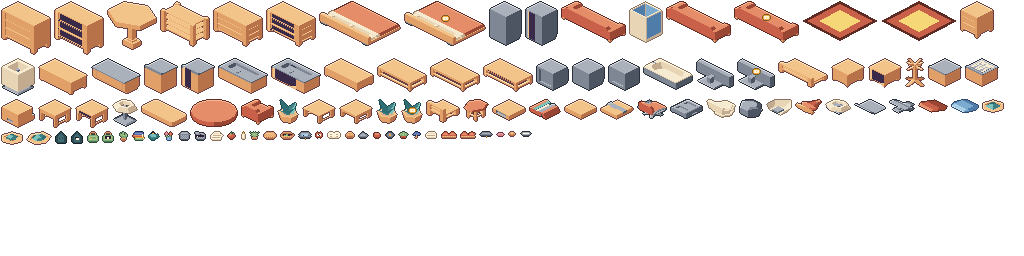
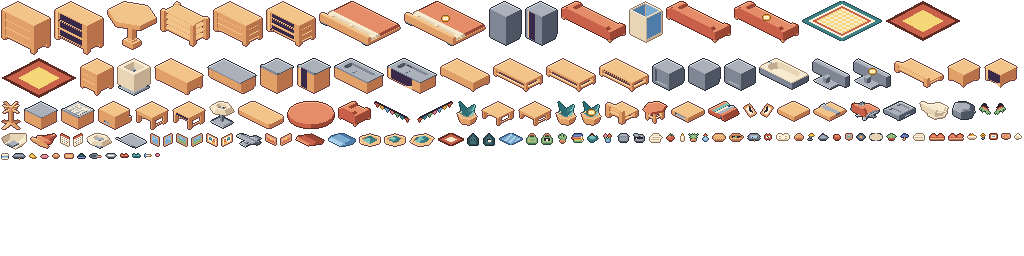
AI-4: last 29 hand-built decor kinds incl. wall mounts (R/_L); every registry kind has a frame

Changed region(s): [[0.0, 0.2188, 1.0, 0.625], [0.7812, 0.0, 0.9688, 0.1562]]

diff --git a/tools/pixelart/props2.py b/tools/pixelart/props2.py
@@ -1,0 +1,95 @@
+#!/usr/bin/env python3
+"""Hand-built decor kinds (B) that have no Kenney model: small tops, flat floor pieces, rugRect, and wall mounts.
+Non-mount frames: pivot = bottom centre (tops) / centre (flat pieces, rugRect). Mounts: `prop/<kind>` is for the RIGHT wall (gy=0, sheared
+down-right), `prop/<kind>_L` its mirror for the LEFT wall; pivot = the wall point P(t, base) (bottom-left corner of the right-wall frame, bottom-right of _L).
+Usage: props2.py <room-slice dir>"""
+import json, math, os, sys
+from PIL import Image
+sys.path.insert(0, os.path.dirname(__file__))
+from dsl import build, col
+from props import L
+from yard import outline, new
+T = {
+ 'teacup': ["..ww..", ".wwww.", "wcccwo", "wcccwo", ".ddd.."],
+ 'vase': ["..r..", ".rRr.", "..g..", ".bBb.", "bBBBb", "bBBBb", ".bbb."],
+ 'photoFrame1': ["nnnnnn", "nbBBbn", "nbggbn", "nbbbbn", "nnnnnn", "..mm.."],
+ 'photoFrame2': ["nnnnnnnn", "nPpppyPn", "nppyyppn", "nnnnnnnn", "..mmmm.."],
+ 'bowl': ["..r.y..", ".rRyYy.", "wwwwwwww", "wccccccw", ".dddddd."],
+ 'cuttingBoard': ["nnnnnnnn", "nNNNNNNn", "nNnNNNNn", "mnnnnnnm"],
+ 'pan': ["..kkkkk...", "kjjjjjkk..", "kjjjjjkNNNN", "..kkkkk..."],
+ 'banana': [".yy...", "yYYy..", "yYYYy.", "..yyyz"],
+ 'magazine': ["rrrrrrr", "rwwwwwr", "rwbbbwr", "rwwwwwr", "rrrrrrr"],
+ 'desk_lamp': ["..yyy.", ".yYYYy", "..kk..", "..k...", ".k....", "kkkk.."],
+ 'hat': ["..lll..", ".lLLLl.", "lllllll", "VVVVVVV"],
+ 'keyring': [".yy.", "y..y", ".yy.", "..k.", ".kk."],
+ 'towelStack': ["wwwwww", "cccccc", "bbbbbb", "BBBBBB", "wwwwww"],
+ 'soap': ["ppp", "pPp"],
+ 'toothbrush': ["b.....", "bwwwwy", "b....."],
+}
+F = {'shoesPair': (["rr..rr.", "RRrrRRr", "qqqqqqq"], 'ink'), 'slippers': (["tt..tt.", "TTttTTt", "uuuuuuu"], 'ink')}
+def disc(w, h, fn):
+    im = new(w, h); px = im.load()
+    for y in range(h):
+        for x in range(w):
+            d = abs(x - (w - 1) / 2) / (w / 2) + abs(y - (h - 1) / 2) / (h / 2)
+            if d <= 1: px[x, y] = fn(x, y, d)
+    return im
+def padded(im, pv):
+    pd = new(im.width + 2, im.height + 2); pd.alpha_composite(im, (1, 1)); return pd, (pv[0] + 1, pv[1] + 1)
+def ellipse(w, h, fn):
+    im = new(w, h); px = im.load()
+    for y in range(h):
+        for x in range(w):
+            d = ((x - (w - 1) / 2) / (w / 2)) ** 2 + ((y - (h - 1) / 2) / (h / 2)) ** 2
+            if d <= 1: px[x, y] = fn(x, y, d)
+    return im
+def rug_rect():
+    def f(x, y, d):
+        if d > 0.86: return col('teal.2')
+        if d > 0.76: return col('plaster.4')
+        if d > 0.66: return col('terracotta.2')
+        return col('butter.3') if (x // 4 + y // 2) % 2 else col('plaster.3')
+    return disc(80, 40, f)
+def shear(flat, left):
+    w, h = flat.size; im = new(w, h + w // 2 + 1)
+    for x in range(w): im.alpha_composite(flat.crop((x, 0, x + 1, h)), (x, x // 2))
+    pv = (0, h - 1 + 1)
+    if left: im = im.transpose(Image.FLIP_LEFT_RIGHT); pv = (w - 1, pv[1])
+    return im, pv
+M = {
+ 'poster1': ["nnnnnnnnnn", "nbbbbbbbbn", "nbbBBbbbbn", "nbbbbbbbbn", "nggggggggn", "nGgGgGgGgn", "nggggggggn", "nnnnnnnnnn"],
+ 'poster2': ["nnnnnnnnnn", "nPPPPPPPPn", "nPyyYyyPPn", "nppyYYypPn", "nrrrrrrrrn", "nRrRrRrRrn", "nnnnnnnnnn"],
+ 'poster3': ["nnnnnnnnnn", "nwwwwwwwwn", "nwtttwrrwn", "nwtTtwrRwn", "nwtttwrrwn", "nwwwwyyywn", "nwwwwyYywn", "nnnnnnnnnn"],
+ 'calendar': ["rrrrrrrr", "rrrrrrrr", "wwwwwwww", "wkwkwkww", "wwwwwwww", "wkwkwkrw", "wwwwwwww", "wkwkwkww", "cccccccc"],
+ 'mirrorWall': ["nnnnnnnn", "nBbBbBbn", "nbBbBbBn", "nBbBbbbn", "nbBbbbbn", "nBbbbbbn", "nbbbbbbn", "nbbbbbbn", "nnnnnnnn"],
+ 'hangingPlant': ["....ii....", "...i..i...", "..i....i..", "...rrrr...", "..rRRRRr..", ".gGgGgGgg.", "gGgGhGgGgG", "g.gG..Gg.g", "..g....g.."],
+ 'bunting': ["iiiiiiiiiiiiiiiiiiiiiiiiiiiiiiii", "rrrr.yyyy.bbbb.pppp.gggg.tttt.rrrr.", ".rr...yy...bb...pp...gg...tt...rr..", "..r....y....b....p....g....t....r..."],
+}
+def clock():
+    return disc(12, 12, lambda x, y, d: col('nN'[0:0] or 'woodWarm.2') if d > 0.8 else col('plaster.4') if not (x in (5, 6) and y < 7 or y in (5, 6) and x > 5 and x < 9) else col('ink'))
+if __name__ == '__main__':
+    out = sys.argv[1]; piv = json.load(open(os.path.join(out, 'pivots.json')))
+    def save(key, im, pv, pad=True):
+        if pad: im, pv = padded(im, pv)
+        im.save(os.path.join(out, key.replace('/', '__') + '.png')); piv[key] = {'pivot': list(pv)}
+    for k, rows in T.items():
+        im = build(rows, L); save(f'prop/{k}', im, (im.width // 2, im.height - 2), pad=False)
+    for k, (rows, _) in F.items():
+        im = build(rows, L); save(f'prop/{k}', im, (im.width // 2, im.height // 2), pad=False)
+    cat = disc(26, 13, lambda x, y, d: col('terracotta.0') if d > 0.88 else col('plaster.3') if d < 0.5 else col('terracotta.2'))
+    save('prop/catBed', outline(cat), (14, 7))  # save() pads
+    save('prop/bathMat', outline(disc(24, 12, lambda x, y, d: col('sky.1') if d > 0.85 else col('sky.3') if (x + y) % 6 < 3 else col('sky.2'))), (13, 7))
+    rv = ellipse(14, 8, lambda x, y, d: col('stone.1') if d > 0.8 else col('plaster.2') if (x, y) != (9, 3) else col('rose.3')); save('prop/robotVacuum', outline(rv), (8, 5))
+    save('prop/rugRect', outline(rug_rect()), (41, 21))
+    for k, rows in M.items():
+        flat = build(rows, L, outline=False) if False else None
+        flat = new(max(len(r) for r in rows), len(rows)); px = flat.load()
+        for y, r in enumerate(rows):
+            for x, ch in enumerate(r):
+                if ch != '.': px[x, y] = col(L[ch])
+        for left in (False, True):
+            im, pv = shear(flat, left); im, pv = padded(outline(padded(im, pv)[0]), (pv[0] + 1, pv[1] + 1)); save(f'prop/{k}' + ('_L' if left else ''), im, pv, pad=False)
+    c = clock()
+    for left in (False, True):
+        im, pv = shear(c, left); im, pv = padded(outline(padded(im, pv)[0]), (pv[0] + 1, pv[1] + 1)); save('prop/clockWall' + ('_L' if left else ''), im, pv, pad=False)
+    json.dump(piv, open(os.path.join(out, 'pivots.json'), 'w'), indent=0); print('props2 done')

diff --git a/docs/status/AI-4.md b/docs/status/AI-4.md
@@ -9,6 +9,8 @@
 - Room contact sheet tool (art:sheet), kitchen/bedroom props, check-frames fronts check: closed/open now exist for every kind used by living, kitchen and bedroom (bagSpot, basket, bin, charger, jacket, papers, shoeRack, rug, table new; sofa/bed/tv/plant got an `open` state). tools/pixelart/spots.py + spots.json (table).
 - 42 more Kenney-derived `prop/<kind>` frames (all registry kinds that have a Kenney model: sofa, chairs, tables, storage, kitchen, bath, laundry, lamps, rugs, small tops...). Footprints/heights taken from worldKinds.ts. fronts.json now covers 50 models (check_fronts: 0 missing). room-slice atlas 113 frames in one 1024x1024 sheet.
 - Shells for ALL 6 rooms at ROOM_SIZE (entrance 8x9, living 12x9, kitchen 10x9, bathroom 8x9, bedroom 12x9, study 10x9), wall 64 art px, windows from worldProps, door on the left wall of rooms that are `b` of a WORLD_DOOR. Keys `shell/<room>/full|full_dusk|full_night`, one atlas per room: group `room:<id>`. Pivot = back corner of the floor diamond = (145,65) in every room. Old 10x8 shells removed from room:slice. Per-room moods: entrance terracotta, living sage, kitchen teal tile, bathroom teal stripe + stone, bedroom blue/rose, study sage + slate.
+- Last 29 hand-built kinds (tools/pixelart/props2.py): tops (teacup, vase, frames, bowl, board, pan, banana, magazine, desk_lamp, hat, keyring, towelStack, soap, toothbrush), flats (shoesPair, slippers, catBed, bathMat, robotVacuum, rugRect 80x40) and wall mounts. EVERY kind in PROP_KINDS now has a `prop/<kind>` frame (script check: 0 missing).
+- MOUNT frames: `prop/<kind>` is the RIGHT wall (gy=0, sheared down-right) and `prop/<kind>_L` the LEFT wall; pivot = wall point P(t, base): bottom-left corner of the R frame, bottom-right of _L. They are ~8-16 art px, bigger than AI-3's 1x1.5-unit placeholder quad.
 ## Verified
 - check.py core: 74 files, 0 problems; room-slice: 49 files, 0 problems (see commit).
 ## Not verified
@@ -18,9 +20,10 @@
 - Exterior is simple: flat lawn tiles, small door (12x19 art px), awning is a single striped slope, glow is dithered.
 - A few picture frames and the coat rack still use dark honey-brown outlines; kitchen/bedroom shells only recoloured, not redesigned.
 ## Requests
+- AI-3: draw mounts with `prop/<kind>` (wall R) or `prop/<kind>_L` (wall L) anchored at P(t,0,base) / P(0,t,base); frames are not mirrored by flipX.
 - AI-3: shells are in `room:<id>` groups now (ensureGroup('room:living') etc.); props stay in `room:slice`. Pivot of every shell = floor back corner (145,65). Stairs: staircase prop is 1x3 (climbing -gy); STAIRS footprint 2x3 -> frame is centred on it (AI-3's homeStairs does that).
 - AI-2: stairsUp footprint is 2x1 in layoutProps.ts but the staircase needs 1 wide x 3 deep (or rotate to 3x1 with rot 1 once I add a mirrored frame). Tell me which; I can also re-cut it 2x1 with steeper rise.
 - AI-3: src/ui/theme.ts should read docs/art/palette.json `theme`. AI-1: add check_fronts.py to `npm run verify`.
 ## Next
-- Hand-built kinds still missing (29): rugRect, bathMat, catBed, shoesPair, slippers, robotVacuum, teacup, vase, photoFrame1/2, bowl, cuttingBoard, pan, banana, magazine, desk_lamp, hat, keyring, towelStack, soap, toothbrush, poster1-3, calendar, clockWall, mirrorWall, hangingPlant, bunting.
+- (done) hand-built kinds were: rugRect, bathMat, catBed, shoesPair, slippers, robotVacuum, teacup, vase, photoFrame1/2, bowl, cuttingBoard, pan, banana, magazine, desk_lamp, hat, keyring, towelStack, soap, toothbrush, poster1-3, calendar, clockWall, mirrorWall, hangingPlant, bunting.
 - Room contact sheet tool (art:sheet), kitchen/bedroom props, check-frames fronts check (spot/<kind>/closed|open, padlock overlay).
